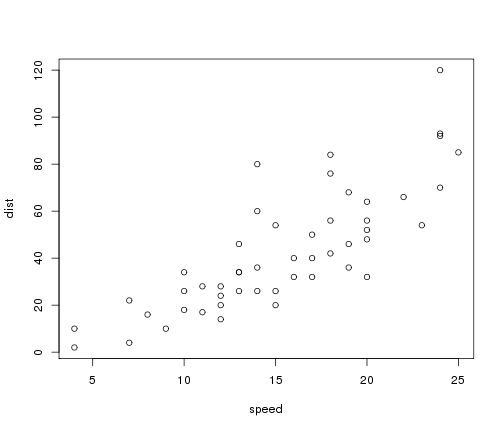
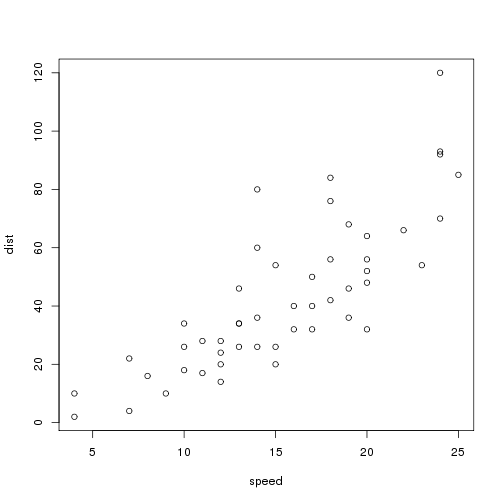
Fixed images in render_post

diff --git a/testsite/testsite/posts/2013_05/The_first_post.html b/testsite/testsite/posts/2013_05/The_first_post.html
@@ -1,5 +1,4 @@
-<!DOCTYPE html><html><head title="<title>David Springate's blog</title>"><div class="container-fluid well"><h1>What is this?</h1><p>David Springate's personal blog on programming, data, informatics, biostatistics and evolution</p></div><div class="subnav"><div class="nav nav-pills"><ul><li><a href="/index.html">Home</a></li><li><a href="/about.html">About</a></li><li><a href="/research.html">Research</a></li><li><a href="/papers.html">Papers</a></li><li><a href="https://github.com/DASpringate">Github</a></li></ul></div></div><link  type="text/css" href="/css/bootstrap.min.css" rel="stylesheet" />
-<link  type="text/css" href="/css/smartphone.css" rel="stylesheet" /></head><body><div class="container-fluid"><div class="row-fluid"><div  class="span1" /><div class="span10"><h1>Building a static site generator in R</h1>
+<!DOCTYPE html><html><head title="David Springate's blog"><meta charset="utf-8"><meta content="width=device-width, initiali-scale=1.0, user-scalable=yes" name="viewport"><div class="container-fluid well"><h1>What is this?</h1><p>David Springate's personal blog on programming, data, informatics, biostatistics and evolution</p></div><div class="subnav"><div class="nav nav-pills"><ul><li><a href="/index.html">Home</a></li><li><a href="/about.html">About</a></li><li><a href="/research.html">Research</a></li><li><a href="/papers.html">Papers</a></li><li><a href="https://github.com/DASpringate">Github</a></li></ul></div></div><link href="/css/bootstrap.min.css" rel="stylesheet" type="text/css"><link href="/css/bootstrap.min.css" rel="stylesheet" type="text/css"><link href="/css/smartphone.css" media="only screen and (max-device-width:480px)" rel="stylesheet" type="text/css"></head><body><div class="container-fluid"><div class="row-fluid"><div class="span1"></div><div class="span10"><h1>Building a static site generator in R</h1>
 
 <p>This is an R Markdown document. Markdown is a simple formatting syntax for authoring web pages (click the <strong>MD</strong> toolbar button for help on Markdown).</p>
 
@@ -12,7 +11,7 @@
 <pre><code class="r">plot(cars)
 </code></pre>
 
-<p><img src="img/unnamed-chunk-9.png" alt="plot of chunk unnamed-chunk-9"/> </p>
+<p><img src="/img/unnamed-chunk-2.png" alt="plot of chunk unnamed-chunk-2"/> </p>
 
 <ol>
 <li>Finish this</li>
@@ -21,4 +20,4 @@
 </ol>
 
 <p>Fin</p>
-<h6>Posted on 2013-05-01</h6></div><div  class="span1" /></div><div class="span12"><div  class="span2" /><div class="span8"><footer class="footer"><p class="right back_to_top"><a href="#">&uArr; Page Top</a></p><p><a href="http://twitter.com/datajujitsu">@datajujitsu</a>&nbsp; 2012</p></footer></div></div></div></body></html>
+<h6>Posted on 2013-05-01</h6></div><div class="span1"></div></div><div class="span12"><div class="span2"></div><div class="span8"><footer class="footer"><p class="right back_to_top"><a href="#">&uArr; Page Top</a></p><p><a href="http://twitter.com/datajujitsu">@datajujitsu</a>&nbsp; 2013</p></footer></div></div></div></body></html>

diff --git a/testsite/template/posts/2013_05_01_The_first_post.md b/testsite/template/posts/2013_05_01_The_first_post.md
@@ -18,7 +18,7 @@ This is an R Markdown document. Markdown is a simple formatting syntax for autho
 plot(cars)
 ```
 
-![plot of chunk unnamed-chunk-9](img/unnamed-chunk-9.png) 
+![plot of chunk unnamed-chunk-2](testsite/testsite/img/unnamed-chunk-2.png) 
 
 
 1. Finish this
